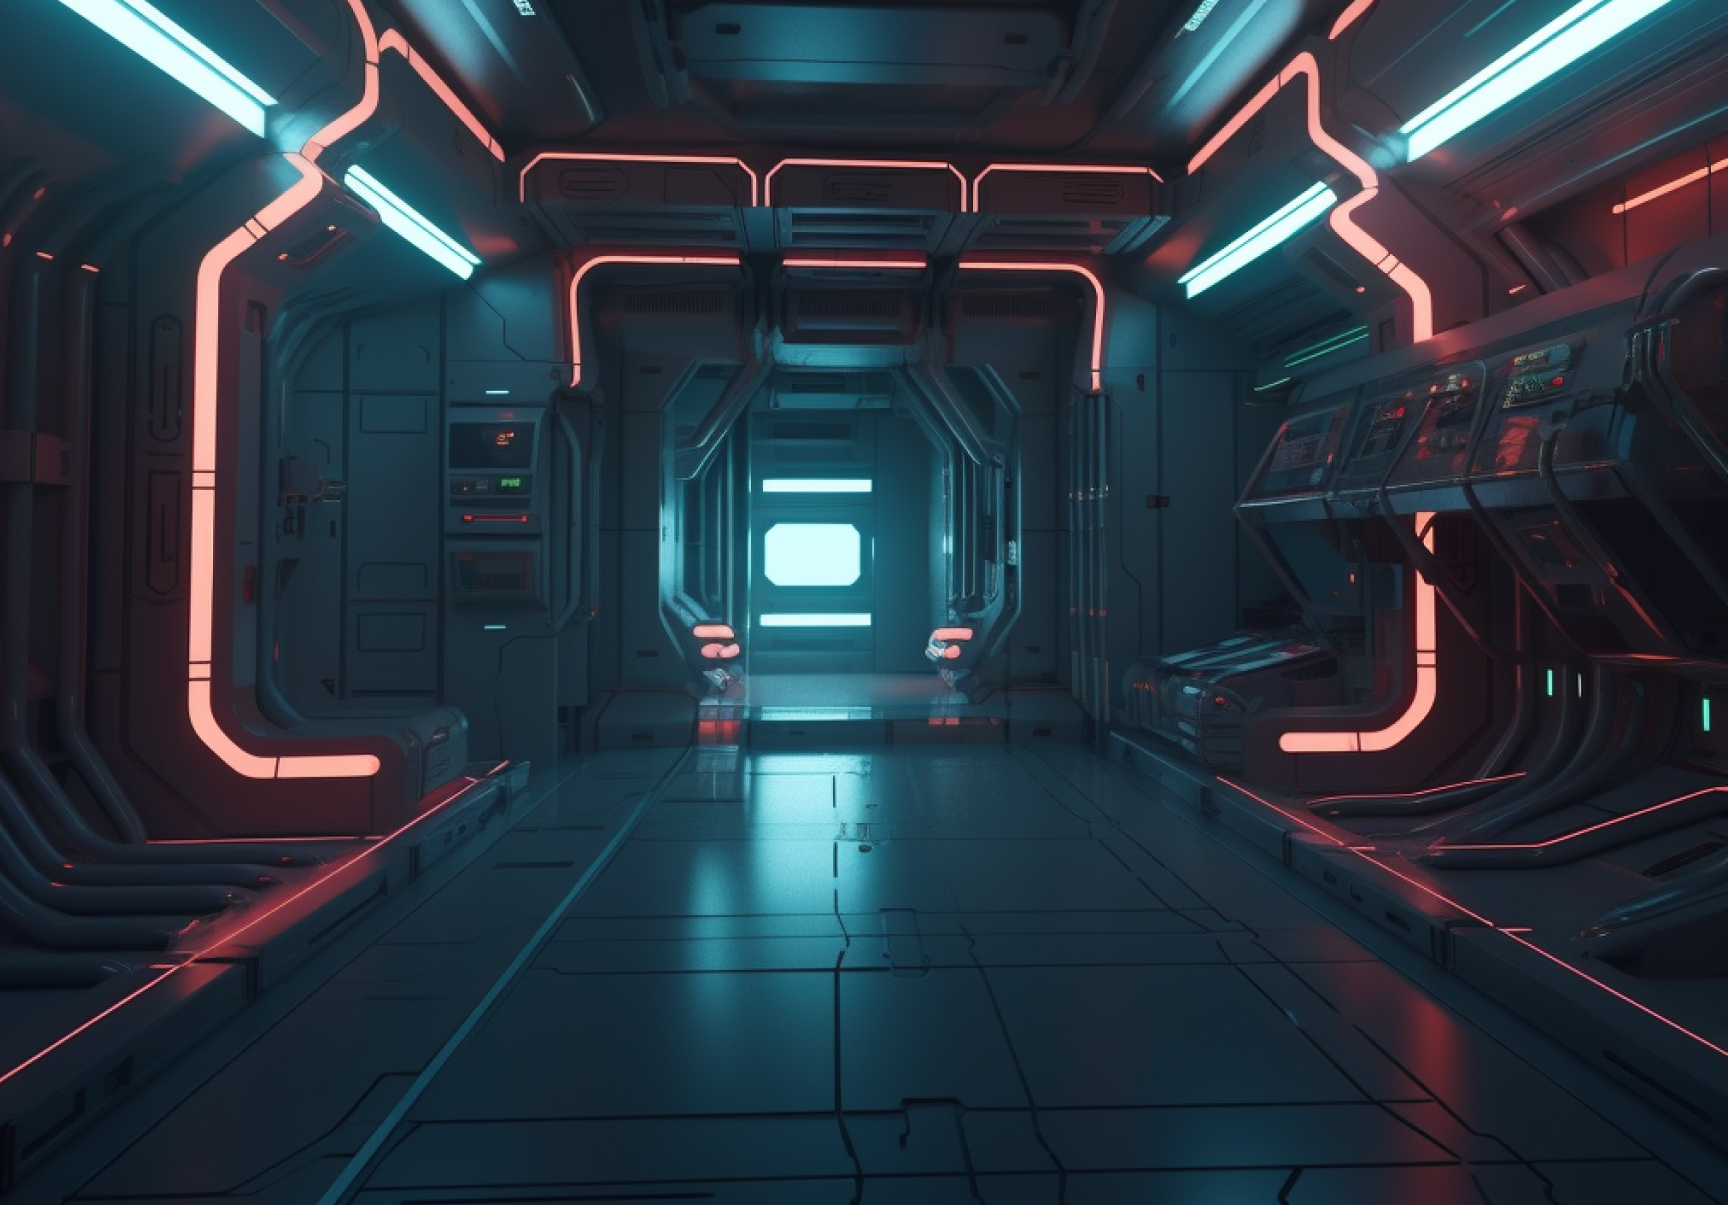
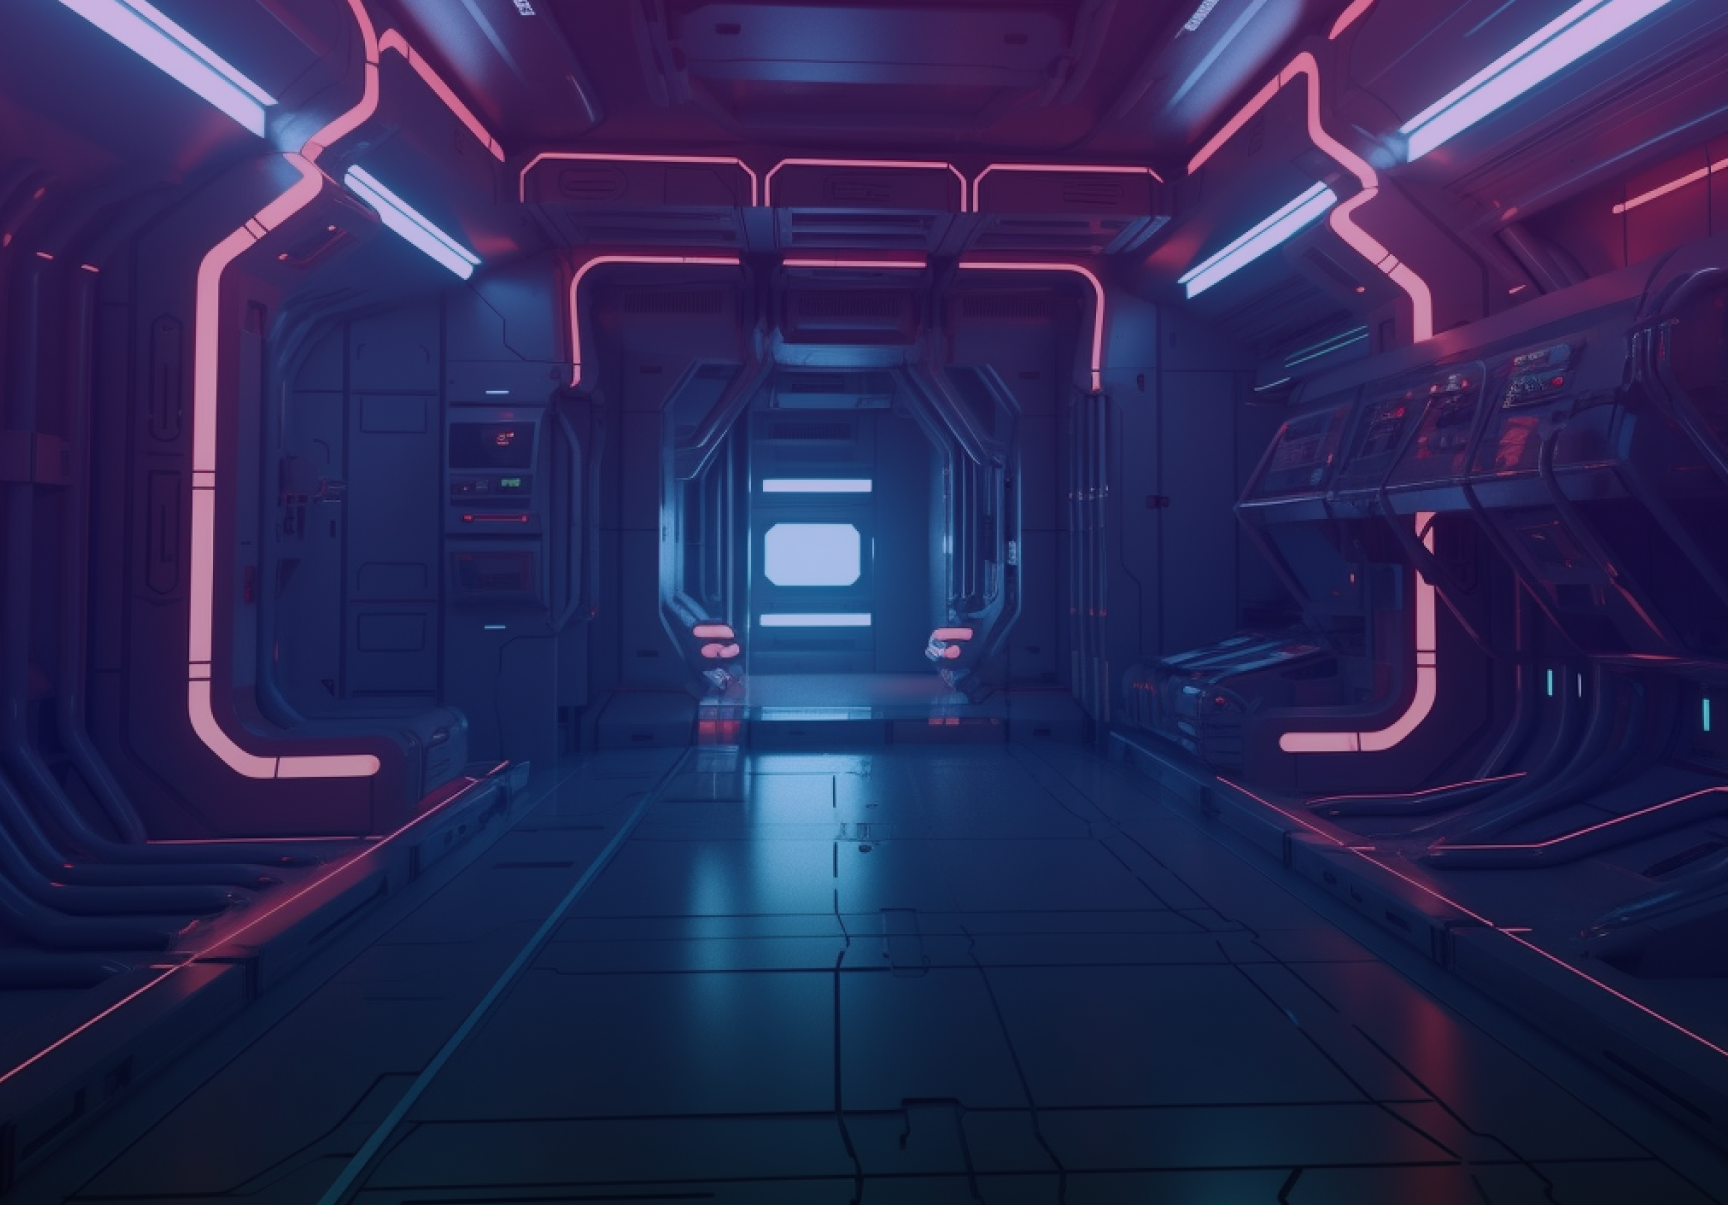
fix: mejora el posicionamiento del BG y del texto

diff --git a/css/styles.css b/css/styles.css
@@ -12,8 +12,10 @@ body {
   max-height: 100vh;
   align-items: center;
   padding-top: 70px;
-  background-image: linear-gradient(180deg, rgba(132, 0, 154, 0.3) 0%, rgba(0, 7, 165, 0.249) 61.98%, rgba(3, 0, 22, 0.3) 100%), url('../img/bg.png');
+  background-image: url('../img/bg.png');
   background-position: center;
+  background-size: cover;
+  background-repeat: no-repeat;
   box-shadow: 0px 4px 4px rgba(0, 0, 0, 0.25);
 }
 
@@ -30,7 +32,7 @@ body {
   color: white;
   font-weight: bold;
   font-size: 2.4rem;
-  transform: translateY(-100px);
+  transform: translateY(-80px);
   text-transform: uppercase;
   letter-spacing: -2px;
 }
